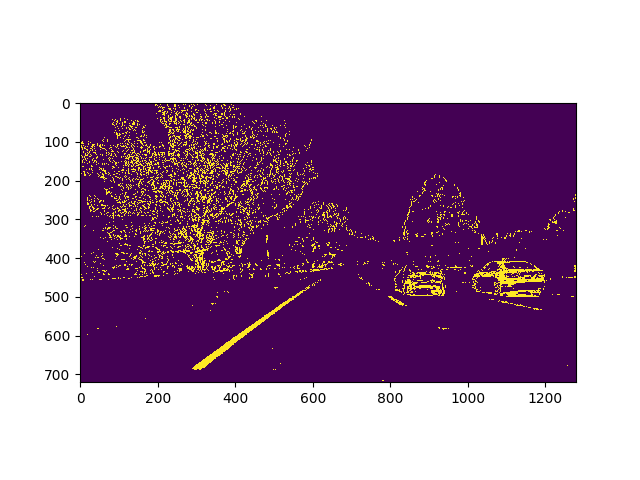
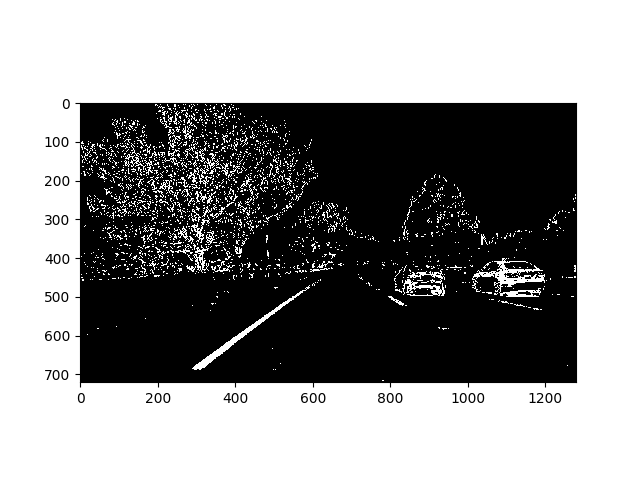
corrected the test thresholded images

diff --git a/testPerspectiveTransform.py b/testPerspectiveTransform.py
@@ -78,7 +78,7 @@ for fname in images:
     plt.savefig('corrected_images/perspective/input' + str(count) + '.png')
     plt.gcf().clear()
 
-    # undistort
+    # apply perspective correction
     warped, unwarped, M, Minv = perspectiveTransform.perspectiveTransform(img, src, dst)
     plt.imshow(warped)
     plt.savefig('corrected_images/perspective/output' + str(count) + '.png')

diff --git a/testThreshold.py b/testThreshold.py
@@ -69,6 +69,6 @@ for fname in images:
     img = cv2.imread(fname)
     count +=1
     combined_binary = threshold.applyThresholdColorHLS(img, xgrad_thresh=xgrad_thresh_temp, s_thresh=s_thresh_temp)
-    plt.imshow(combined_binary)
+    plt.imshow(combined_binary, cmap="gray")
     plt.savefig('corrected_images/threshold/image' + str(count) + '.png')
     plt.gcf().clear()
